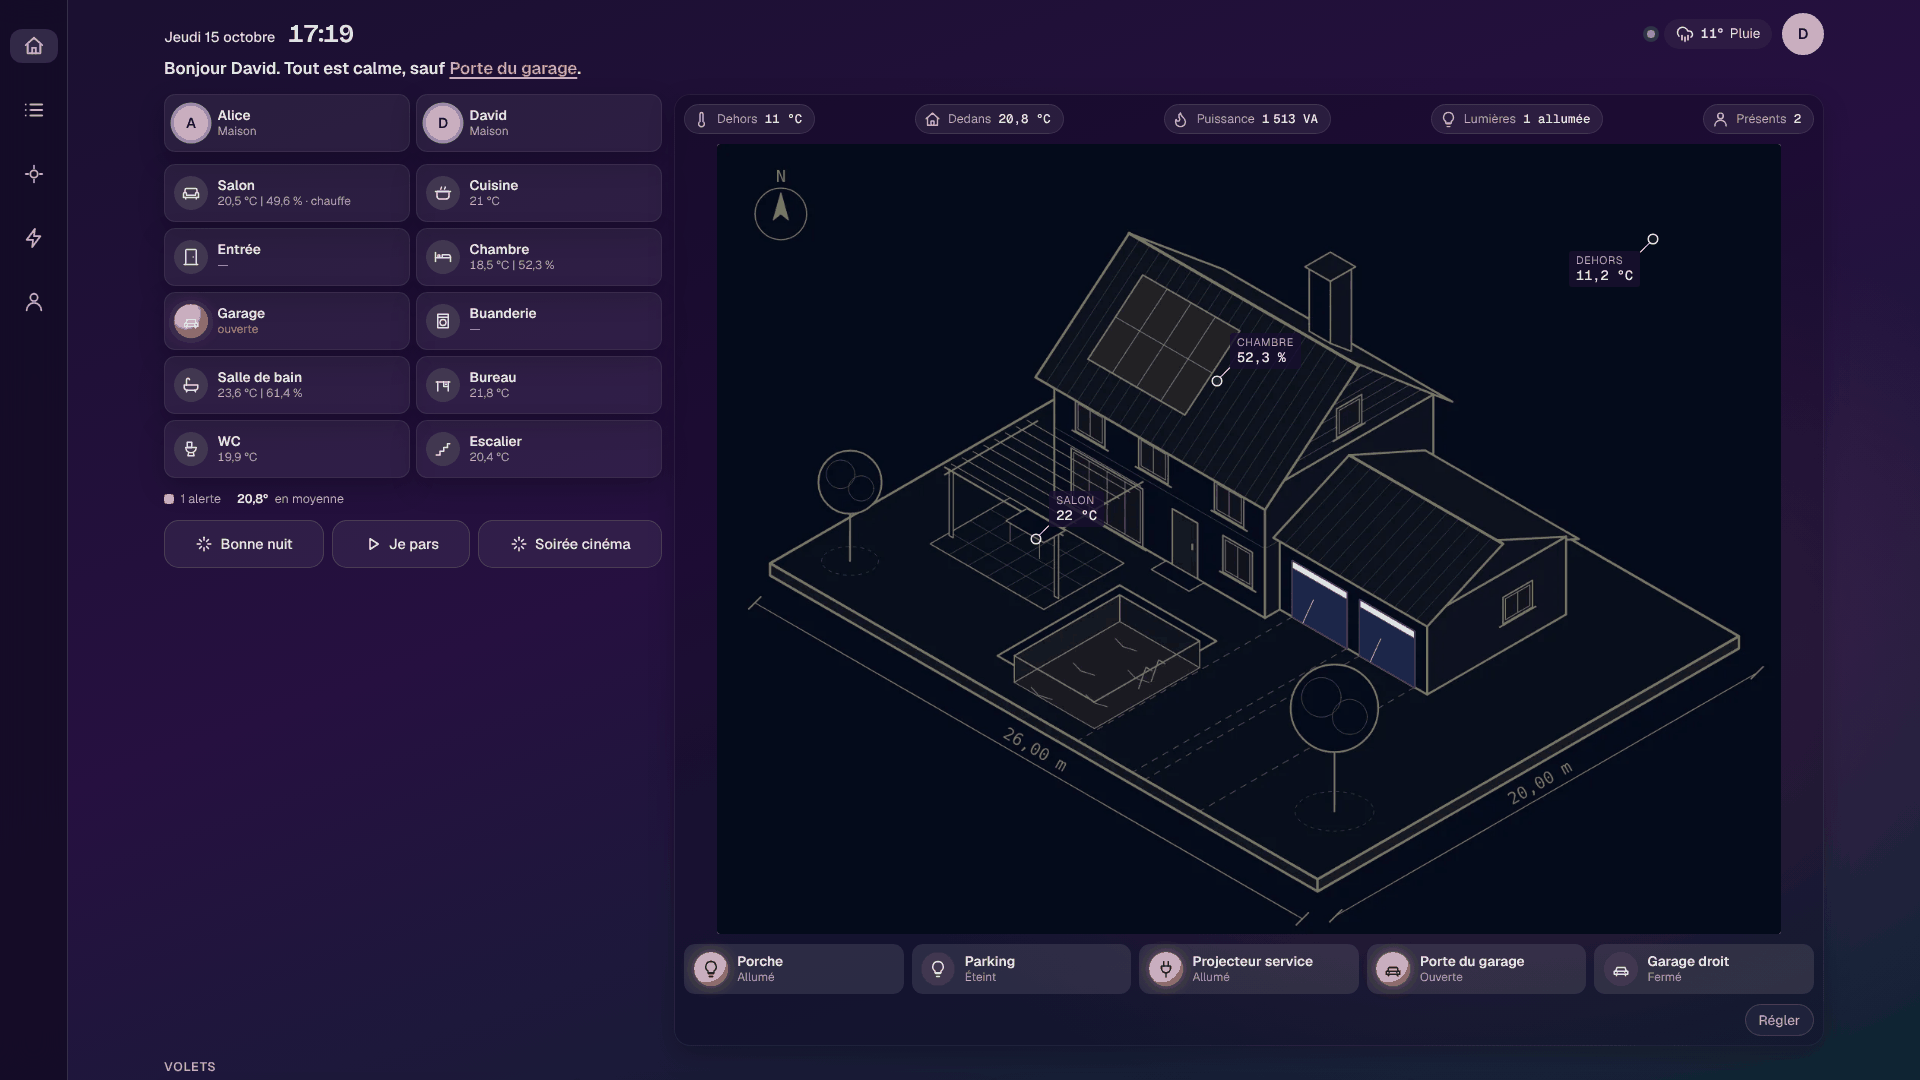
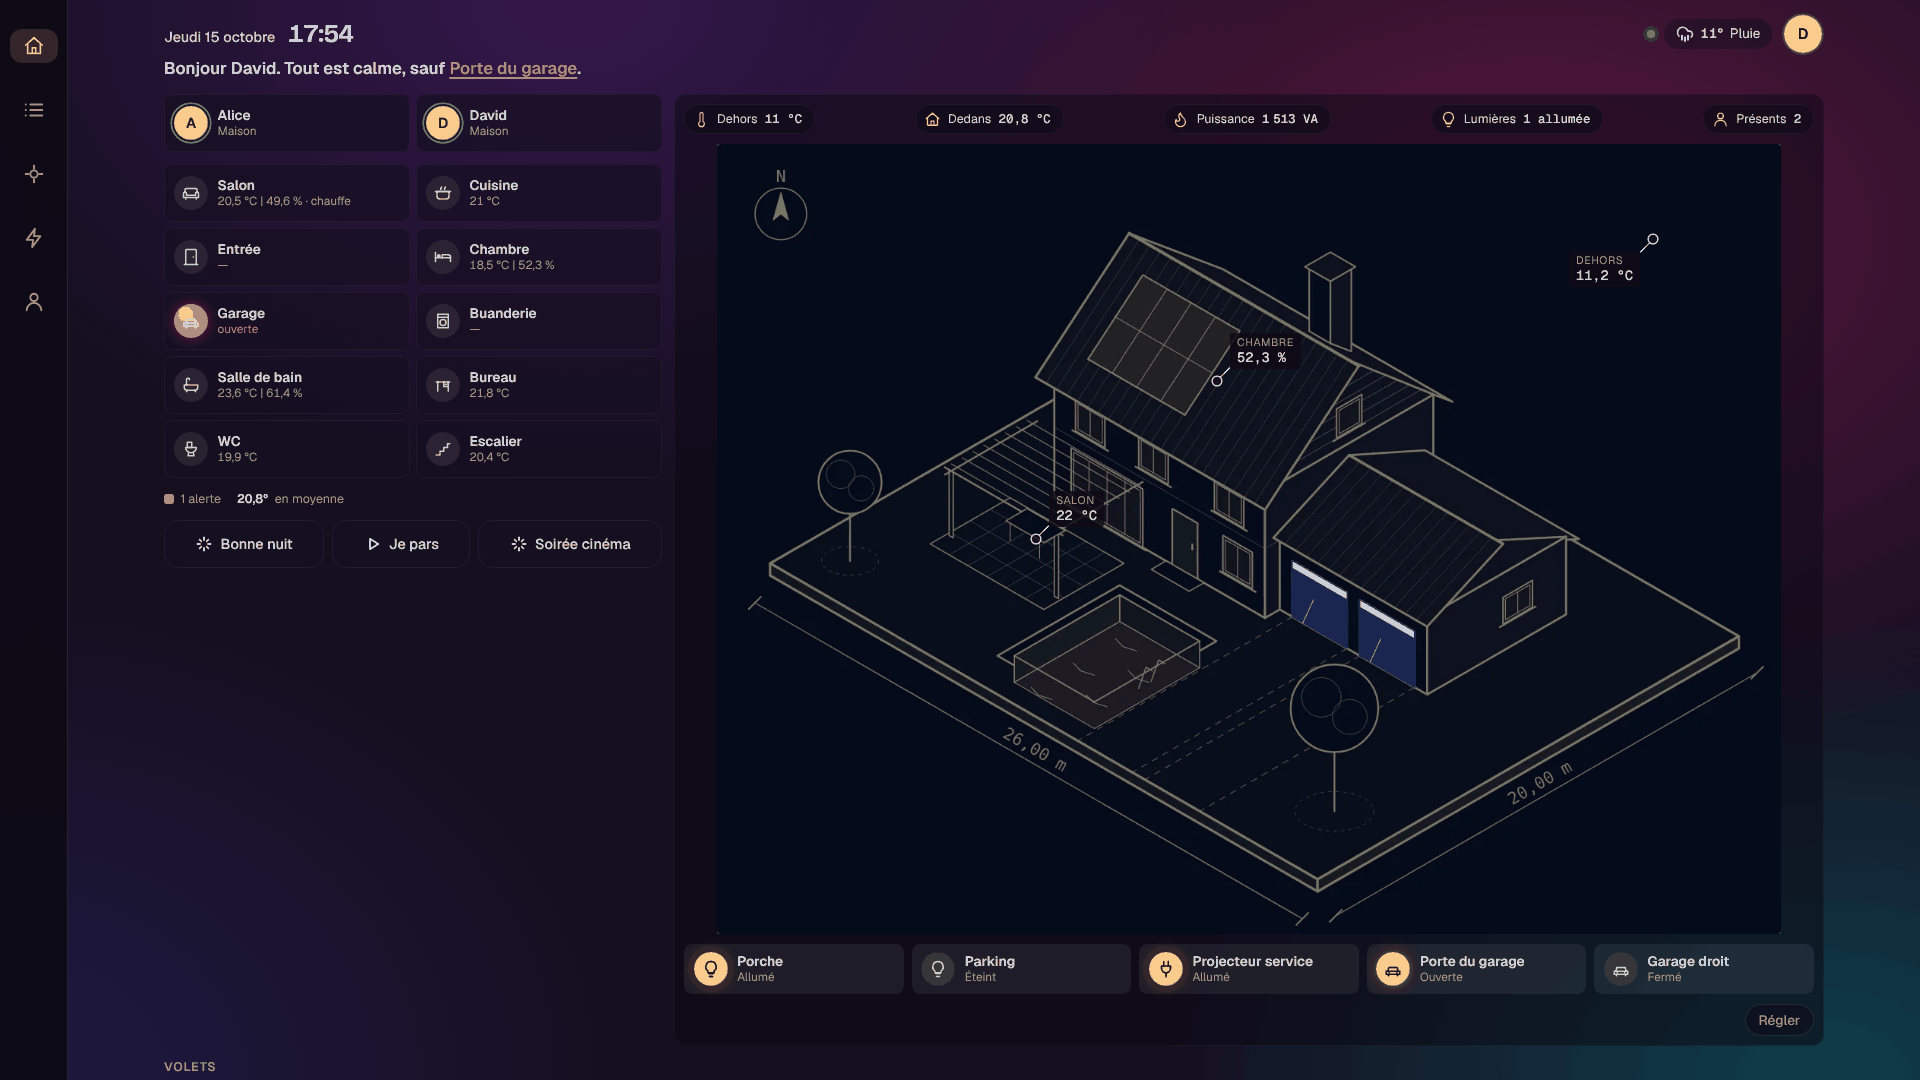
Match the Maquette colours to the reference dashboards
Near-black background with a magenta glow top right, violet at the
top and teal at the bottom; panels darker than the background with a
violet tint; round icons that light up orange (lights, open doors,
people at home); orange accent.

Claude-Session: https://claude.ai/code/session_01Dkvx92mMriiViKmoaNEmtb

diff --git a/crates/ha-api/web/style.css b/crates/ha-api/web/style.css
@@ -2035,66 +2035,76 @@ label.check { display: flex; align-items: center; gap: 0.45rem; color: var(--tex
    ====================================================================== */
 
 :root[data-theme="maquette"] {
-  --bar: #1a1030;
-  --bg: #1a1030;
+  --bar: #120e1c;
+  --bg: #120e1c;
   --sky-1: transparent;
   --sky-2: transparent;
-  --card: rgb(255 255 255 / 0.06);
-  --card-2: rgb(255 255 255 / 0.1);
-  --line: rgb(255 255 255 / 0.14);
-  --text: #f4f0fc;
-  --text-2: #ddd4f0;
-  --muted: #ab9fc8;
-  --accent: #b9a0ff;
-  --accent-ink: #1a1030;
-  --accent-soft: rgb(185 160 255 / 0.18);
-  --glow: #ffc04d;
-  --glow-ink: #ffe4a8;
-  --glow-soft: rgb(255 176 64 / 0.16);
-  --glow-line: rgb(255 192 77 / 0.45);
-  --glow-bar: #ffc04d;
-  --heat: #ff8a5c;
-  --heat-ink: #ffc4ab;
-  --heat-soft: rgb(255 138 92 / 0.18);
-  --ok: #5fe0a8;
-  --ok-soft: rgb(95 224 168 / 0.16);
-  --alert: #ff6b7a;
-  --alert-ink: #ffcbd1;
-  --alert-soft: rgb(255 107 122 / 0.16);
-  --alert-stripe: rgb(255 107 122 / 0.3);
-  --shadow: inset 0 0 0 1px rgb(255 255 255 / 0.07), 0 10px 26px rgb(0 0 0 / 0.22);
-  --shadow-float: inset 0 0 0 1px rgb(255 255 255 / 0.08), 0 20px 48px rgb(0 0 0 / 0.55);
-  --radius: 16px;
+  /* Des panneaux plus sombres que le fond, comme sur les maquettes. */
+  --card: rgb(22 15 34 / 0.72);
+  --card-2: rgb(255 255 255 / 0.07);
+  --line: rgb(255 255 255 / 0.1);
+  --text: #f5f2fa;
+  --text-2: #ddd6ea;
+  --muted: #9d93b3;
+  --accent: #ffa733;
+  --accent-ink: #1f1405;
+  --accent-soft: rgb(255 167 51 / 0.16);
+  --glow: #ffa733;
+  --glow-ink: #ffd99a;
+  --glow-soft: rgb(255 167 51 / 0.14);
+  --glow-line: rgb(255 167 51 / 0.4);
+  --glow-bar: #ffa733;
+  --heat: #ff7a45;
+  --heat-ink: #ffbf9f;
+  --heat-soft: rgb(255 122 69 / 0.16);
+  --ok: #4fd69c;
+  --ok-soft: rgb(79 214 156 / 0.15);
+  --alert: #ff5a6e;
+  --alert-ink: #ffc6ce;
+  --alert-soft: rgb(255 90 110 / 0.15);
+  --alert-stripe: rgb(255 90 110 / 0.28);
+  --shadow: inset 0 0 0 1px rgb(255 255 255 / 0.045);
+  --shadow-float: inset 0 0 0 1px rgb(255 255 255 / 0.07), 0 20px 48px rgb(0 0 0 / 0.6);
+  --radius: 12px;
   color-scheme: dark;
 }
 [data-theme="maquette"] body {
+  /* Presque noir, une lueur magenta-bordeaux en haut à droite, une lueur
+     bleu-vert en bas : l'ambiance des maquettes de domo-blog. */
   background:
-    radial-gradient(1100px 760px at 78% 12%, rgb(168 52 128 / 0.32), transparent 62%),
-    radial-gradient(1000px 760px at 8% 95%, rgb(18 118 140 / 0.34), transparent 60%),
-    linear-gradient(160deg, #1a1030 0%, #261040 46%, #0e2533 100%) fixed;
-  background-color: var(--bg);
+    radial-gradient(1200px 820px at 80% 22%, rgb(160 30 96 / 0.5), transparent 66%),
+    radial-gradient(1000px 700px at 30% 0%, rgb(92 34 130 / 0.45), transparent 70%),
+    radial-gradient(1000px 700px at 95% 100%, rgb(6 118 128 / 0.45), transparent 66%),
+    radial-gradient(900px 700px at 0% 100%, rgb(46 40 120 / 0.4), transparent 70%),
+    #150f20 fixed;
+  background-attachment: fixed;
 }
 [data-theme="maquette"] :is(.hero, .login) { background: none; }
 /* Ce qui flotte au-dessus de la page reste opaque. */
-[data-theme="maquette"] :is(.history-dialog, .canvas-panel, .canvas-menu, .login-card) { background: #22163a; }
-[data-theme="maquette"] .dock { background: rgb(34 22 58 / 0.92); }
-[data-theme="maquette"] .house { background: rgb(8 4 20 / 0.28); }
-[data-theme="maquette"] .gauge { background: rgb(255 255 255 / 0.07); border: 0; box-shadow: inset 0 0 0 1px rgb(255 255 255 / 0.1); }
+[data-theme="maquette"] :is(.history-dialog, .canvas-panel, .canvas-menu, .login-card) { background: #1a1426; }
+
+[data-theme="maquette"] .house { background: rgb(10 8 18 / 0.5); }
+[data-theme="maquette"] .gauge { background: rgb(16 12 26 / 0.7); border: 0; box-shadow: inset 0 0 0 1px rgb(255 255 255 / 0.06); color: var(--text-2); }
 [data-theme="maquette"] .gauge svg { color: var(--accent); }
 [data-theme="maquette"] .house-label::before { box-shadow: 0 0 0 1.5px #ffffff; }
 [data-theme="maquette"] .house-label::after { background: #ffffff; }
-[data-theme="maquette"] .house-tag { border-color: rgb(255 255 255 / 0.5); background: rgb(26 16 48 / 0.82); }
-[data-theme="maquette"] .tile.light.on { background: linear-gradient(140deg, rgb(255 176 64 / 0.24), rgb(255 176 64 / 0.08)); }
+[data-theme="maquette"] .house-tag { border-color: rgb(255 255 255 / 0.35); background: rgb(14 11 22 / 0.85); }
 [data-theme="maquette"] .scene.on { background: var(--accent); color: var(--accent-ink); }
+[data-theme="maquette"] .scene { background: var(--card); border-color: rgb(255 255 255 / 0.06); }
+[data-theme="maquette"] :is(.ghost, .period) { background: rgb(16 12 26 / 0.62); border-color: rgb(255 255 255 / 0.1); }
 /* Des icônes rondes, qui s'allument en couleur (comme sur les maquettes). */
 [data-theme="maquette"] :is(.room-icon, .house-action-icon, .icon) { border-radius: 50%; }
+[data-theme="maquette"] :is(.room-icon, .house-action-icon, .person-avatar) { background: rgb(255 255 255 / 0.08); color: #cfc7de; }
 [data-theme="maquette"] .room.lit .room-icon,
-[data-theme="maquette"] .house-action.on .house-action-icon { background: radial-gradient(circle at 35% 30%, #ffd57a, #f59f1a); color: #3b2405; box-shadow: 0 0 14px rgb(255 176 64 / 0.45); }
+[data-theme="maquette"] .house-action.on .house-action-icon,
+[data-theme="maquette"] .tile.light.on .icon { background: radial-gradient(circle at 35% 30%, #ffc766, #f08c00); color: #2a1700; box-shadow: 0 0 14px rgb(255 160 40 / 0.4); }
+[data-theme="maquette"] .tile.light.on { background: linear-gradient(140deg, rgb(255 160 40 / 0.2), rgb(16 12 26 / 0.62) 70%); box-shadow: inset 0 0 0 1px rgb(255 167 51 / 0.3); }
+[data-theme="maquette"] .person-chip.home .person-avatar { background: radial-gradient(circle at 35% 30%, #ffc766, #f08c00); color: #2a1700; box-shadow: 0 0 0 2px #1a1426, 0 0 0 3.5px var(--ok); }
 [data-theme="maquette"] .cover-row.on .house-action-icon { background: rgb(120 200 255 / 0.18); color: #8fd3ff; }
 [data-theme="maquette"] .room.alert .room-icon { background: radial-gradient(circle at 35% 30%, #ff8f9a, #e2445a); box-shadow: 0 0 14px rgb(255 107 122 / 0.4); }
 [data-theme="maquette"] .gauge { min-height: 30px; font-size: 0.78rem; }
 [data-theme="maquette"] .cover-row-buttons .round { background: rgb(255 255 255 / 0.07); border-radius: 10px; }
-[data-theme="maquette"] .dock { background: rgb(20 12 38 / 0.94); }
+[data-theme="maquette"] .dock { background: rgb(14 11 22 / 0.94); }
 
 /* ---------- Réglage du dessin ---------- */
 

diff --git a/docs/maquette.md b/docs/maquette.md
@@ -18,13 +18,14 @@ Reprendre la mise en page des tableaux de bord isométriques de Home Assistant (
 - **puis les volets**, sur toute la largeur, trois ou quatre par ligne, avec ▲ ■ ▼, et tous les
   autres appareils comme avant.
 
-Les icônes sont rondes et s'allument en couleur : dorée pour une lumière allumée ou une porte
+Les icônes sont rondes et s'allument en couleur : orange pour une lumière allumée ou une porte
 ouverte, rouge pour une alerte.
 
 ## Choisir l'apparence
 
-**Mon compte → Apparence → Maquette** : un fond sombre en dégradé, violet vers bleu nuit, et des
-tuiles translucides. C'est fait pour une maquette 3D sur fond sombre : l'article de domo-blog
+**Mon compte → Apparence → Maquette** : un fond presque noir, avec une lueur magenta en haut à
+droite, violette en haut et bleu-vert en bas ; des panneaux plus sombres que le fond, des icônes
+rondes qui s'allument en orange, comme sur les tableaux de domo-blog. C'est fait pour une maquette 3D sur fond sombre : l'article de domo-blog
 demande à l'IA un fond `#1C1C1C`.
 
 Les deux styles « plan d'architecte » prennent aussi cette mise en page. Clair et sombre gardent
